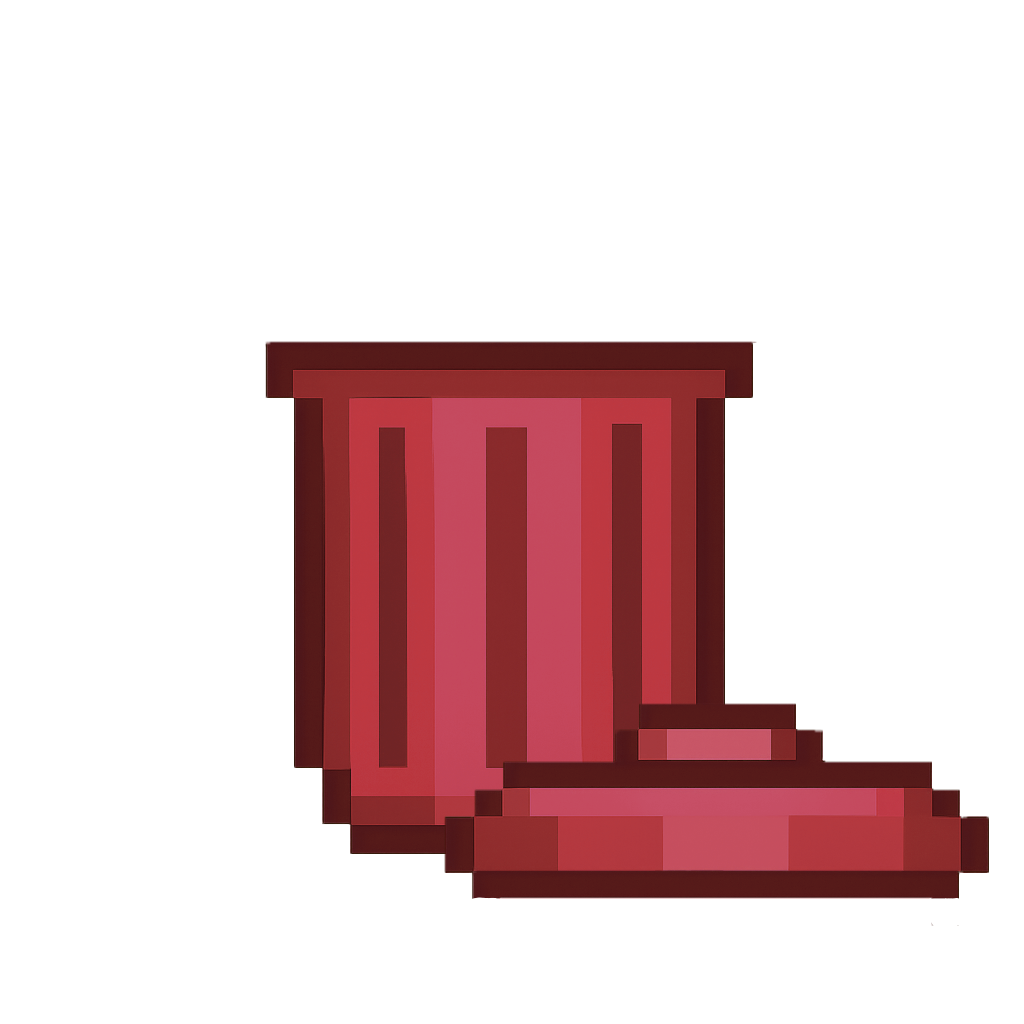
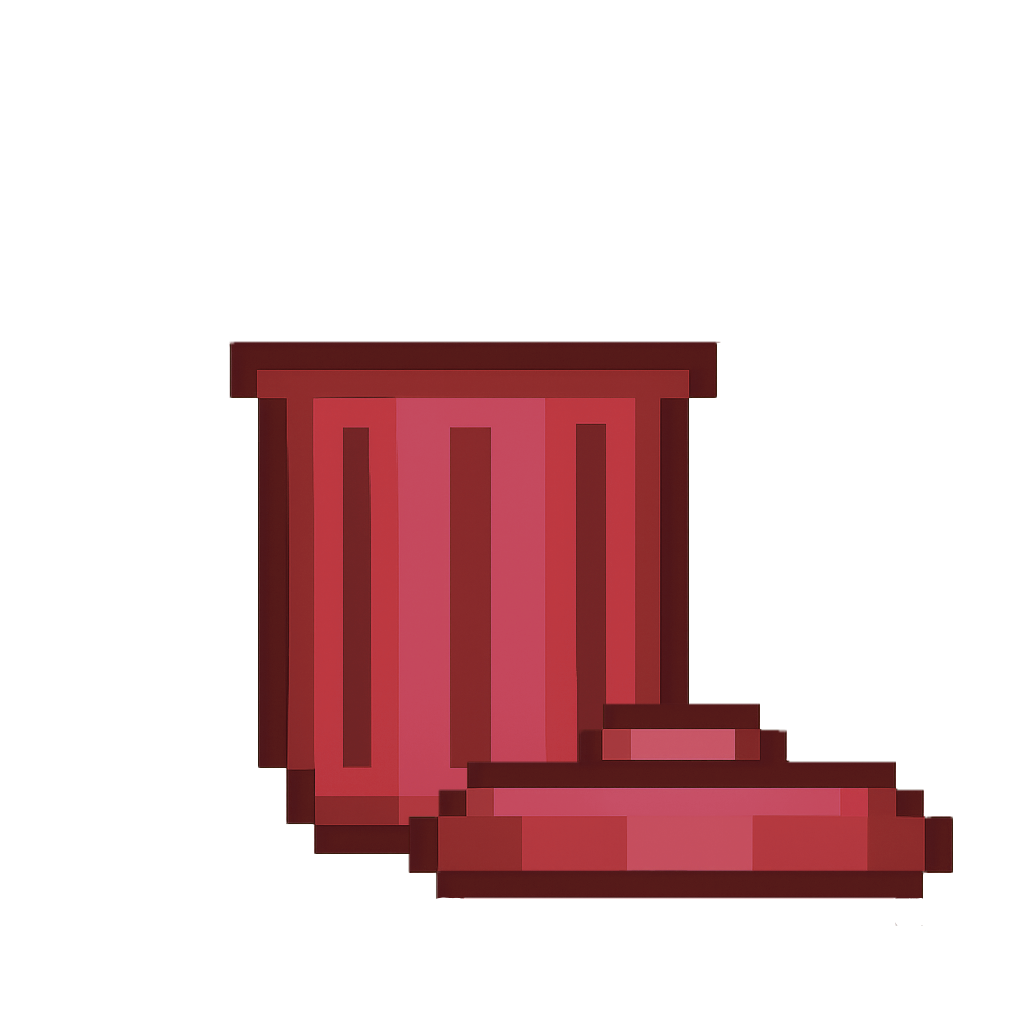
assets/feat(trashcanImages): all the bins are now animated

diff --git a/js/script.js b/js/script.js
@@ -14,15 +14,30 @@ const redBinImg = new Image();
 const greenBinImg = new Image();
 const yellowBinImg = new Image();
 
+const blueBinNoLidImg = new Image();
+const redBinNoLidImg = new Image();
+const greenBinNoLidImg = new Image();
+const yellowBinNoLidImg = new Image();
+
 let blueLoaded = false;
 let redLoaded = false;
 let greenLoaded = false;
 let yellowLoaded = false;
 
+let blueNoLidLoaded = false;
+let redNoLidLoaded = false;
+let greenNoLidLoaded = false;
+let yellowNoLidLoaded = false;
+
 blueBinImg.src = "../images/blue_trashcan_nobg.png";
 redBinImg.src = "../images/red_trashcan_nobg.png";
 greenBinImg.src = "../images/green_trashcan_nobg.png";
 yellowBinImg.src = "../images/yellow_trashcan_nobg.png";
+
+blueBinNoLidImg.src = "../images/blue_trashcan_nobg_nolid.png";
+redBinNoLidImg.src = "../images/red_trashcan_nobg_nolid.png";
+greenBinNoLidImg.src = "../images/green_trashcan_nobg_nolid.png";
+yellowBinNoLidImg.src = "../images/yellow_trashcan_nobg_nolid.png";
 
 blueBinImg.onload = () => {
   blueLoaded = true;
@@ -38,6 +53,23 @@ greenBinImg.onload = () => {
 };
 yellowBinImg.onload = () => {
   yellowLoaded = true;
+  drawings();
+};
+
+blueBinNoLidImg.onload = () => {
+  blueNoLidLoaded = true;
+  drawings();
+};
+redBinNoLidImg.onload = () => {
+  redNoLidLoaded = true;
+  drawings();
+};
+greenBinNoLidImg.onload = () => {
+  greenNoLidLoaded = true;
+  drawings();
+};
+yellowBinNoLidImg.onload = () => {
+  yellowNoLidLoaded = true;
   drawings();
 };
 
@@ -73,20 +105,10 @@ function moveLines(dx) {
   drawings();
 }
 
-window.addEventListener("keydown", (event) => {
-  if (event.key === "ArrowLeft") {
-    event.preventDefault();
-    moveLines(-steps);
-  } else if (event.key === "ArrowRight") {
-    event.preventDefault();
-    moveLines(steps);
-  }
-});
-
-const binPositionsX = [180, 530, 880, 1230];
-const binDrawY = 150;
-
 function drawBins() {
+  const binPositionsX = [180, 530, 880, 1230];
+  const binDrawY = 150;
+
   const binImages = [
     { img: blueBinImg, loaded: blueLoaded },
     { img: redBinImg, loaded: redLoaded },
@@ -98,12 +120,37 @@ function drawBins() {
     const entry = binImages[i];
     if (!entry.loaded) continue;
 
-    const img = entry.img;
-    const drawW = (img.naturalWidth || img.width) / 3;
-    const drawH = (img.naturalHeight || img.height) / 3;
+    let imgToDraw = entry.img;
+    if (i === 0 && blueNoLidLoaded) {
+      const centerX = binPositionsX[i];
+      if (centerX >= guideline1 && centerX <= guideline2) {
+        imgToDraw = blueBinNoLidImg;
+      }
+    }
+    if (i === 1 && redNoLidLoaded) {
+      const centerX = binPositionsX[i];
+      if (centerX >= guideline1 && centerX <= guideline2) {
+        imgToDraw = redBinNoLidImg;
+      }
+    }
+    if (i === 2 && greenNoLidLoaded) {
+      const centerX = binPositionsX[i];
+      if (centerX >= guideline1 && centerX <= guideline2) {
+        imgToDraw = greenBinNoLidImg;
+      }
+    }
+    if (i === 3 && yellowNoLidLoaded) {
+      const centerX = binPositionsX[i];
+      if (centerX >= guideline1 && centerX <= guideline2) {
+        imgToDraw = yellowBinNoLidImg;
+      }
+    }
+
+    const drawW = (imgToDraw.naturalWidth || imgToDraw.width) / 3;
+    const drawH = (imgToDraw.naturalHeight || imgToDraw.height) / 3;
 
     const drawX = binPositionsX[i] - drawW / 2;
-    ctx.drawImage(img, drawX, binDrawY, drawW, drawH);
+    ctx.drawImage(imgToDraw, drawX, binDrawY, drawW, drawH);
   }
 }
 
@@ -117,3 +164,13 @@ function drawings() {
 }
 
 drawings();
+
+window.addEventListener("keydown", (event) => {
+  if (event.key === "ArrowLeft") {
+    event.preventDefault();
+    moveLines(-steps);
+  } else if (event.key === "ArrowRight") {
+    event.preventDefault();
+    moveLines(steps);
+  }
+});
